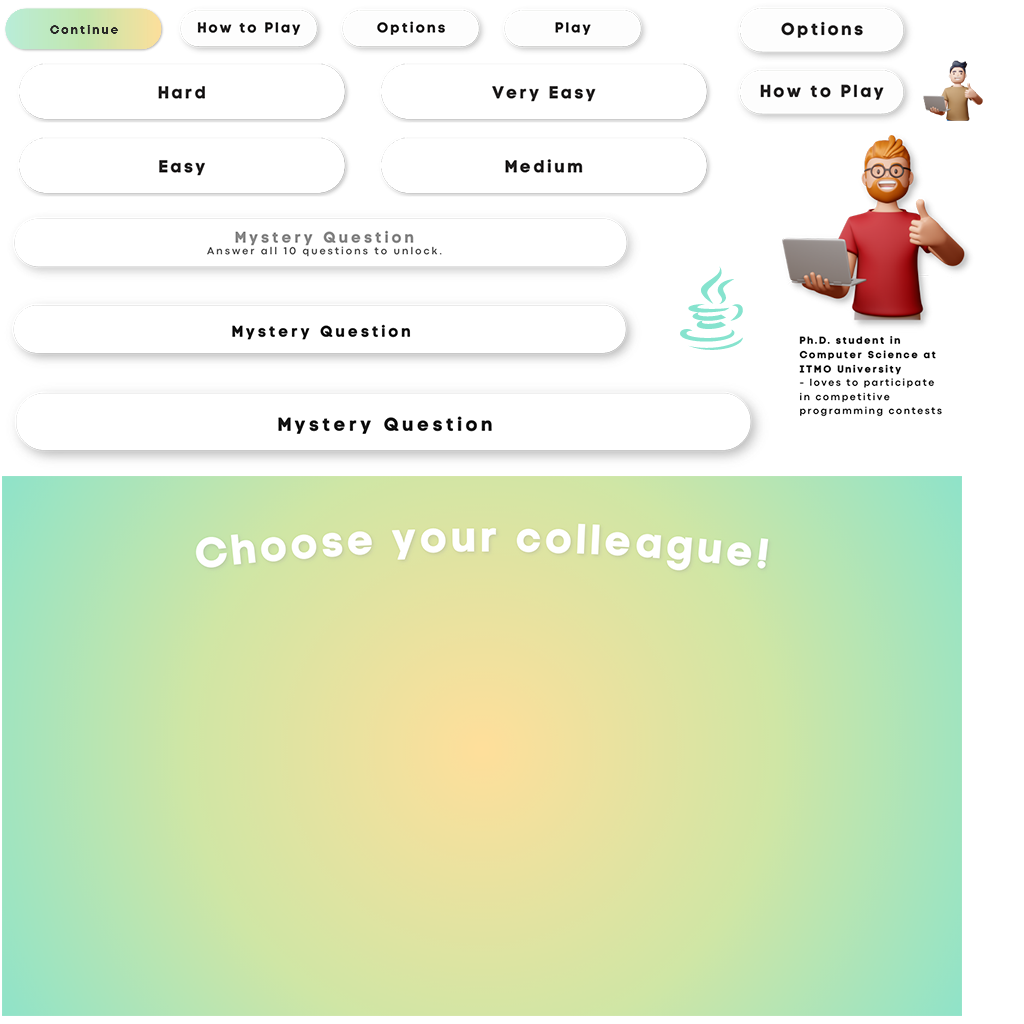
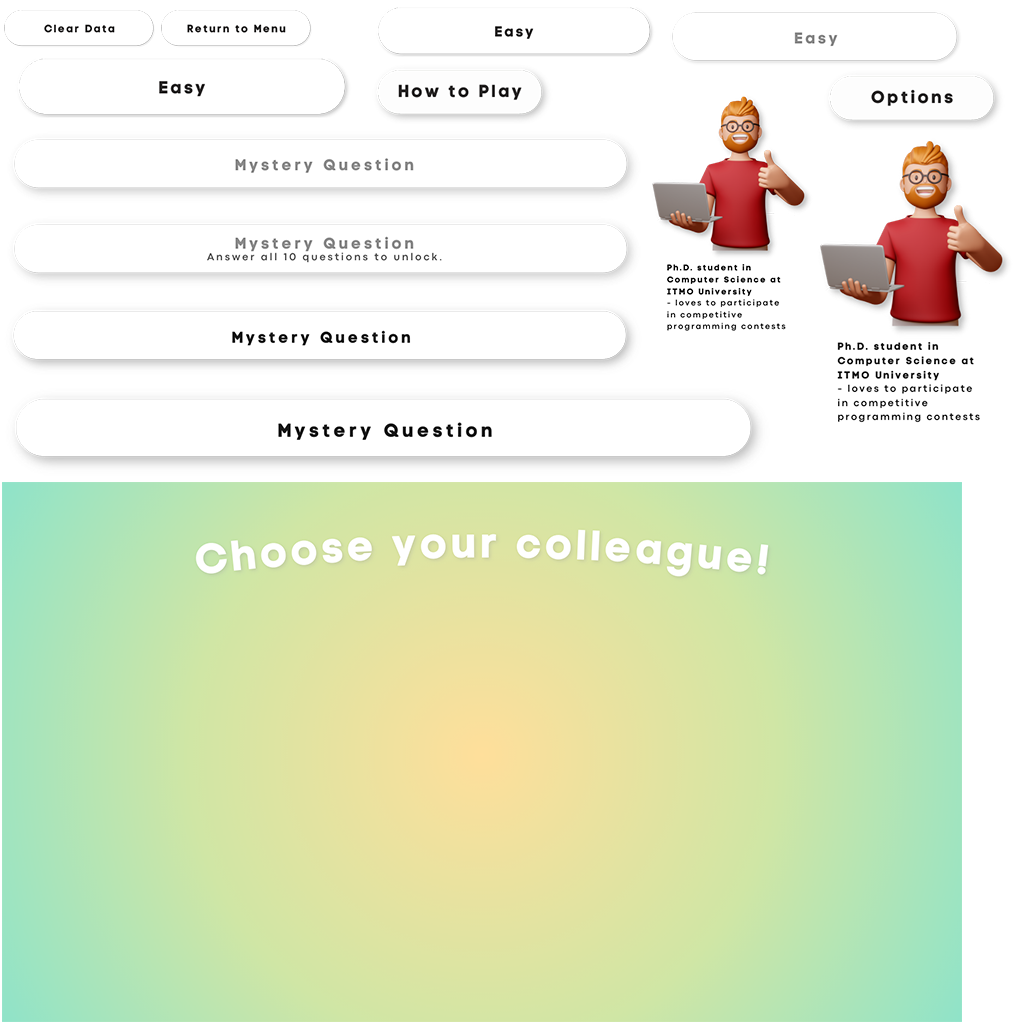
Implement mystery question functionality

diff --git a/core/src/com/mygdx/game/GameplayScreen.java b/core/src/com/mygdx/game/GameplayScreen.java
@@ -110,6 +110,8 @@ public class GameplayScreen extends InputAdapter implements Screen {
 
     private Colleague colleagueLifeline;
 
+    private Object mysteryQuestionObject;
+
 
     public GameplayScreen(ProgrammerGame programmerGame, SpriteBatch batch) {
         this.programmerGame = programmerGame;
@@ -128,6 +130,7 @@ public class GameplayScreen extends InputAdapter implements Screen {
         this.theoreticalQ = questions.getTheoreticalQuestion();
         this.programmingQ = questions.getProgrammingQuestion();
         Assets.instance.font.setViewport(this.viewport);
+        initMysteryQuestion();
         initTextBounds();
         initTheoreticalQuestions();
         initProgrammingQuestions();
@@ -733,7 +736,9 @@ public class GameplayScreen extends InputAdapter implements Screen {
     private void judgeAnswer(boolean correct) {
         //update programmerGame if used a lifeline
         if(askedGoogle){
-            programmerGame.setUsedGoogleLifeline(true);
+//            programmerGame.setUsedGoogleLifeline(true);
+            //debug mode
+            programmerGame.setUsedGoogleLifeline(false);
         }
         if(askedAColleague){
             programmerGame.setUsedAColleagueLifeline(true);
@@ -943,6 +948,41 @@ public class GameplayScreen extends InputAdapter implements Screen {
             this.isCorrectChoiceB = programmingQ[2].getChoice().get(2).isCorrectChoice();
             this.isCorrectChoiceD = programmingQ[2].getChoice().get(3).isCorrectChoice();
             this.topic = programmingQ[2].getTopic();
+        }
+    }
+
+    private void initMysteryQuestion(){
+        if(difficulty == Difficulty.MYSTERY_QUESTION){
+            mysteryQuestionObject = questions.getMysteryQuestion();
+            if(mysteryQuestionObject.getClass().equals(theoreticalQ[0].getClass())){ //mystery question is of class TheoreticalQ
+                Gdx.app.log(TAG, "MYSTERY QUESTION IS OF CLASS THEORETICALQ");
+                TheoreticalQ mysteryQuestionTheoretical = (TheoreticalQ) mysteryQuestionObject;
+                if(mysteryQuestionTheoretical.getDifficulty().equals("VERY EASY")){
+                    this.difficulty = Difficulty.THEORETICAL_VERY_EASY;
+                } else if(mysteryQuestionTheoretical.getDifficulty().equals("EASY")){
+                    this.difficulty = Difficulty.THEORETICAL_EASY;
+                } else if(mysteryQuestionTheoretical.getDifficulty().equals("MEDIUM")){
+                    this.difficulty = Difficulty.THEORETICAL_MEDIUM;
+                } else if(mysteryQuestionTheoretical.getDifficulty().equals("HARD")){
+                    this.difficulty = Difficulty.THEORETICAL_HARD;
+                } else if(mysteryQuestionTheoretical.getDifficulty().equals("VERY HARD")){
+                    this.difficulty = Difficulty.THEORETICAL_VERY_HARD;
+                }
+            } else if(mysteryQuestionObject.getClass().equals(programmingQ[0].getClass())){ //mystery question is of class ProgrammingQ
+                Gdx.app.log(TAG, "MYSTERY QUESTION IS OF CLASS PROGRAMMINGQ");
+                ProgrammingQ mysteryQuestionProgramming = (ProgrammingQ) mysteryQuestionObject;
+                if(mysteryQuestionProgramming.getDifficulty().equals("VERY EASY")){
+                    this.difficulty = Difficulty.PROGRAMMING_VERY_EASY;
+                } else if(mysteryQuestionProgramming.getDifficulty().equals("EASY")){
+                    this.difficulty = Difficulty.PROGRAMMING_EASY;
+                } else if(mysteryQuestionProgramming.getDifficulty().equals("MEDIUM")){
+                    this.difficulty = Difficulty.PROGRAMMING_MEDIUM;
+                } else if(mysteryQuestionProgramming.getDifficulty().equals("HARD")){
+                    this.difficulty = Difficulty.PROGRAMMING_HARD;
+                } else if(mysteryQuestionProgramming.getDifficulty().equals("VERY HARD")){
+                    this.difficulty = Difficulty.PROGRAMMING_VERY_HARD;
+                }
+            }
         }
     }
 

diff --git a/core/src/com/mygdx/game/DifficultyScreen.java b/core/src/com/mygdx/game/DifficultyScreen.java
@@ -81,6 +81,8 @@ public class DifficultyScreen extends InputAdapter implements Screen {
 
         checkHovered();
 
+
+
         if(noOfAnsweredQuestions == 10){
             if(!isMysteryQuestionHovered){
                 //mystery question button
@@ -91,7 +93,11 @@ public class DifficultyScreen extends InputAdapter implements Screen {
                 Util.drawTextureRegion(batch, Assets.instance.difficultyScreenAssets.mysteryQuestionButtonBig, new Vector2(viewport.getCamera().viewportWidth / 2f, viewport.getCamera().viewportHeight / 1.18f), Constants.MYSTERYQUESTION_BUTTON_BIG_CENTER);
             }
         } else{
-            Util.drawTextureRegion(batch, Assets.instance.difficultyScreenAssets.mysteryQuestionButtonLocked, new Vector2(viewport.getCamera().viewportWidth / 2f, viewport.getCamera().viewportHeight / 1.18f), Constants.MYSTERYQUESTION_BUTTON_CENTER);
+            if(noOfAnsweredQuestions == 11){
+                Util.drawTextureRegion(batch, Assets.instance.difficultyScreenAssets.mysteryQuestionButtonSolved, new Vector2(viewport.getCamera().viewportWidth / 2f, viewport.getCamera().viewportHeight / 1.18f), Constants.MYSTERYQUESTION_BUTTON_CENTER);
+            } else{
+                Util.drawTextureRegion(batch, Assets.instance.difficultyScreenAssets.mysteryQuestionButtonLocked, new Vector2(viewport.getCamera().viewportWidth / 2f, viewport.getCamera().viewportHeight / 1.18f), Constants.MYSTERYQUESTION_BUTTON_CENTER);
+            }
         }
 
 
@@ -223,6 +229,10 @@ public class DifficultyScreen extends InputAdapter implements Screen {
 
         Vector2 worldTouch = viewport.unproject(new Vector2(screenX, screenY));
 
+        //mystery question attributes
+        Vector2 mysteryQuestionButtonCenter = new Vector2(viewport.getCamera().viewportWidth / 2f, viewport.getCamera().viewportHeight / 1.18f);
+        Rectangle mysteryQuestionButtonBoundingBox = new Rectangle(mysteryQuestionButtonCenter.x - Constants.MYSTERYQUESTION_BUTTON_WIDTH / 2, mysteryQuestionButtonCenter.y - Constants.MYSTERYQUESTION_BUTTON_HEIGHT / 2, Constants.MYSTERYQUESTION_BUTTON_WIDTH, Constants.MYSTERYQUESTION_BUTTON_HEIGHT);
+
         //THEORETICAL QUESTIONS BUTTONS
         //veryEasyButton attributes
         Vector2 theoreticalVeryEasyButtonCenter = new Vector2(viewport.getCamera().viewportWidth / 3f, viewport.getCamera().viewportHeight / 1.45f);
@@ -267,6 +277,11 @@ public class DifficultyScreen extends InputAdapter implements Screen {
         Rectangle programmingVeryHardButtonBoundingBox = new Rectangle(programmingVeryHardButtonCenter.x - Constants.DIFFICULTY_SCREEN_BUTTON_WIDTH / 2, programmingVeryHardButtonCenter.y - Constants.DIFFICULTY_SCREEN_BUTTON_HEIGHT / 2, Constants.DIFFICULTY_SCREEN_BUTTON_WIDTH, Constants.DIFFICULTY_SCREEN_BUTTON_HEIGHT);
         //END OF PROGRAMMING QUESTIONS BUTTONS
 
+
+        if(noOfAnsweredQuestions == 10 && mysteryQuestionButtonBoundingBox.contains(worldTouch)){
+            programmerGame.showGameplayScreen(Difficulty.MYSTERY_QUESTION);
+            Gdx.app.log(TAG, "CLICKED MYSTERY QUESTION");
+        }
 
         if(theoreticalVeryEasyButtonBoundingBox.contains(worldTouch) && !isTheoreticalVeryEasyAnswered){
             programmerGame.showGameplayScreen(Difficulty.THEORETICAL_VERY_EASY);

diff --git a/core/src/util/Assets.java b/core/src/util/Assets.java
@@ -380,6 +380,8 @@ public class Assets implements Disposable, AssetErrorListener {
         public final TextureAtlas.AtlasRegion hardButtonBig;
         public final TextureAtlas.AtlasRegion veryHardButtonBig;
         public final TextureAtlas.AtlasRegion mysteryQuestionButtonBig;
+        public final TextureAtlas.AtlasRegion mysteryQuestionButtonSolved;
+
 
 
         public DifficultyScreenAssets(TextureAtlas atlas){
@@ -404,6 +406,7 @@ public class Assets implements Disposable, AssetErrorListener {
             mediumButtonLocked = atlas.findRegion(Constants.MEDIUM_BUTTON_LOCKED);
             hardButtonLocked = atlas.findRegion(Constants.HARD_BUTTON_LOCKED);
             veryHardButtonLocked = atlas.findRegion(Constants.VERYHARD_BUTTON_LOCKED);
+            mysteryQuestionButtonSolved = atlas.findRegion(Constants.MYSTERYQUESTION_BUTTON_SOLVED);
         }
     }
 
@@ -431,7 +434,6 @@ public class Assets implements Disposable, AssetErrorListener {
         public final TextureAtlas.AtlasRegion askMikhailaLifelineBig;
         public final TextureAtlas.AtlasRegion askNickLifelineBig;
         public final TextureAtlas.AtlasRegion callAFamilyMemberLifelineBig;
-
 
         public GameplayScreenAssets(TextureAtlas atlas){
             fadeBG = atlas.findRegion(Constants.FADE_BG);

diff --git a/core/src/com/mygdx/game/Questions.java b/core/src/com/mygdx/game/Questions.java
@@ -9,6 +9,7 @@ import java.io.IOException;
 import java.util.ArrayList;
 import java.util.Collections;
 import java.util.HashMap;
+import java.util.Random;
 
 import util.Enums.Difficulty;
 import util.QuestionsManager.TheoreticalQ;
@@ -73,6 +74,25 @@ public class Questions {
 //        Collections.shuffle(programmingQArrayList);
         initializeTheoreticalQuestions();
         initializeProgrammingQuestions();
+    }
+
+    public Object getMysteryQuestion(){
+        /*
+         * Randomly select between the two major categories TheoreticalQ and ProgrammingQ
+         * After one major category is selected, then randomly select from its total pool of questions
+         */
+
+        Random rand = new Random();
+        int pick = rand.nextInt(2);
+
+        if(pick == 0){ //TheoreticalQ
+            return theoreticalQArrayList.get(rand.nextInt(theoreticalQArrayList.size()));
+
+        } else if(pick == 1){ //ProgrammingQ
+            return programmingQArrayList.get(rand.nextInt(theoreticalQArrayList.size()));
+        }
+
+        return null;
     }
 
     public void initializeTheoreticalQuestions() {

diff --git a/core/src/util/Constants.java b/core/src/util/Constants.java
@@ -79,6 +79,7 @@ public class Constants {
     public static final String VERYHARD_BUTTON_LOCKED = "veryHard-button-locked";
     public static final String MYSTERYQUESTION_BUTTON = "mysteryQuestion-button";
     public static final String MYSTERYQUESTION_BUTTON_LOCKED = "mysteryQuestion-button-locked";
+    public static final String MYSTERYQUESTION_BUTTON_SOLVED = "mysteryQuestion-button-solved";
     public static final String MYSTERYQUESTION_BUTTON_BIG = "mysteryQuestion-button-big";
 
     public static final String VERYEASY_BUTTON_BIG = "veryEasy-button-big";

diff --git a/core/src/com/mygdx/game/ProgrammerGame.java b/core/src/com/mygdx/game/ProgrammerGame.java
@@ -203,4 +203,8 @@ public class ProgrammerGame extends Game {
 	public void setProgrammingVeryHardAnswered(boolean programmingVeryHardAnswered) {
 		this.difficultyScreen.setProgrammingVeryHardAnswered(programmingVeryHardAnswered);
 	}
+
+	public Object getMysteryQuestion(){
+		return this.questions.getMysteryQuestion();
+	}
 }
